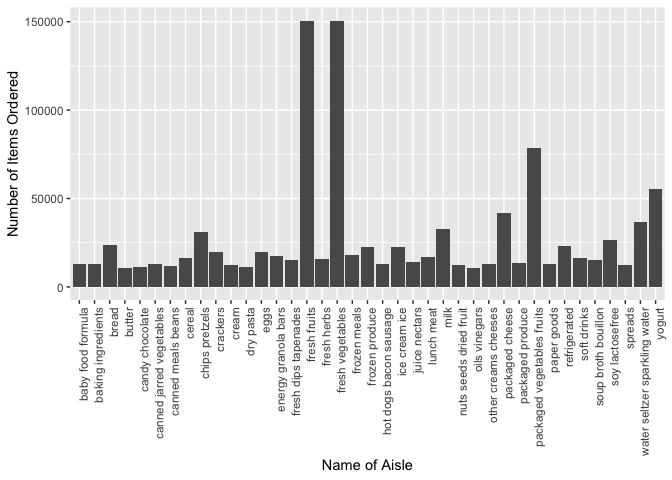
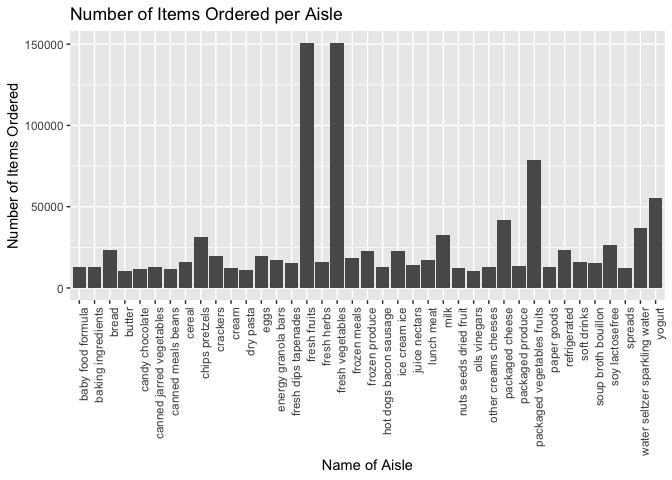
Added additional comments to question 1

diff --git a/p8105_hw3_stl2137.md b/p8105_hw3_stl2137.md
@@ -20,14 +20,12 @@ aisle_count <- instacart %>%
   arrange(desc(n))
 ```
 
-There are a total of `count(aisle_count)` aisles, and the top 6 aisles
-where the most items are ordered from are fresh vegetables, fresh
-fruits, packaged vegetables fruits, yogurt, packcaged cheese, and water
-seltzer sparkling water.
+There are a total of 134 aisles, and the top 6 aisles where the most
+items are ordered from are fresh vegetables, fresh fruits, packaged
+vegetables fruits, yogurt, packcaged cheese, and water seltzer sparkling
+water.
 
-Make a plot that shows the number of items ordered in each aisle,
-limiting this to aisles with more than 10000 items ordered. Arrange
-aisles sensibly, and organize your plot so others can read it.
+### Plot that shows Number of Items Ordered per Aisle
 
 ``` r
 instacart %>% 
@@ -39,17 +37,20 @@ instacart %>%
   geom_col() +
   labs(
     x = "Name of Aisle",
-    y = "Number of Items Ordered"
+    y = "Number of Items Ordered",
+    title = "Number of Items Ordered per Aisle"
   ) + 
   theme(axis.text.x = element_text(angle = 90, hjust = 1))
 ```
 
-![](p8105_hw3_stl2137_files/figure-gfm/unnamed-chunk-2-1.png)<!-- -->
+![](p8105_hw3_stl2137_files/figure-gfm/unnamed-chunk-2-1.png)<!-- --> \*
+Fresh fruits and fresh vegetables are ordered much more frequently than
+the rest of the products customers can order via Instacart. Packaged
+vegetables fruit are the 3rd most ordered product, and yogurt is the 4th
+most ordered
+product.
 
-Make a table showing the three most popular items in each of the aisles
-“baking ingredients”, “dog food care”, and “packaged vegetables
-fruits”. Include the number of times each item is ordered in your
-table.
+### Table showing the three most popular items in the aisles “baking ingredients”, “dog food care”, and “packaged vegetables fruits”
 
 ``` r
 instacart %>% 
@@ -76,9 +77,21 @@ instacart %>%
     ## 8 dog food care             Organix Chicken & Brown Rice Recipe          28
     ## 9 dog food care             Small Dog Biscuits                           26
 
-Make a table showing the mean hour of the day at which Pink Lady Apples
-and Coffee Ice Cream are ordered on each day of the week; format this
-table for human readers (i.e. produce a 2 x 7 table).
+  - The top three items in the “packaged vegetables fruits” aisle are
+    Organize Baby Spinach (ordered 9784 times), Organic Raspberries
+    (ordered 5546 times), and Organic Blueberries (ordered 4966 times).
+
+  - The top three items in the “baking ingredients” aisle are Light
+    Brown Sugar (ordered 499 times), Pure Baking Soda (ordered 387
+    times), and Cane Sugar (ordered 336 times).
+
+  - The top three items in the “dog food care” aisle are Snack Sticks
+    Chicken & Rice Recipe Dog Treats (ordered 30 times), Organix Chicken
+    & Brown Rice Recipe (ordered 28 times), and Small Dog Biscuits
+    (ordered 26
+times).
+
+### Table showing the mean hour of the day at which Pink Lady Apples and Coffee Ice Cream are ordered on each day of the week
 
 ``` r
 instacart %>%
@@ -99,7 +112,38 @@ instacart %>%
     ## 1 Coffee Ice Cream  13.8  14.3  15.4  15.3  15.2  12.3  13.8
     ## 2 Pink Lady Apples  13.4  11.4  11.7  14.2  11.6  12.8  11.9
 
+  - Overall, Coffee Ice Cream is ordered later in the day compared to
+    Pink Lady Apples.
+
+  - On Sunday, the mean hour of the day to order both Coffee Ice Cream
+    and Pink Lady Apples is in the 1 PM hour.
+
+  - On Monday, the mean hour of the day to order Coffee Ice cream is in
+    the 2 PM hour, and the mean hour of the day to order Pink Lady
+    Apples is in the 11 AM hour.
+
+  - On Tuesday, the mean hour of the day to order Coffee Ice cream is in
+    the 3 PM hour, and the mean hour of the day to order Pink Lady
+    Apples is in the 11 AM hour.
+
+  - On Wednesday, the mean hour of the day to order Coffee Ice cream is
+    in the 3 PM hour, and the mean hour of the day to order Pink Lady
+    Apples is in the 2 PM hour.
+
+  - On Thursday, the mean hour of the day to order Coffee Ice cream is
+    in the 3 PM hour, and the mean hour of the day to order Pink Lady
+    Apples is in the 11 AM hour.
+
+  - On Friday, the mean hour of the day to order both Coffee Ice Cream
+    and Pink Lady Apples is in the 12 PM hour.
+
+  - On Saturday, the mean hour of the day to order Coffee Ice cream is
+    in the 2 PM hour, and the mean hour of the day to order Pink Lady
+    Apples is in the 11 AM hour.
+
 ## Problem 2
+
+### Data Cleaning\!
 
 ``` r
 brfss_clean <- brfss_smart2010 %>% 
@@ -111,10 +155,10 @@ brfss_clean <- brfss_smart2010 %>%
 ```
 
 Using this dataset, do or answer the following (commenting on the
-results of each):
+results of
+each):
 
-In 2002, which states were observed at 7 or more locations? What about
-in 2010?
+### In 2002, which states were observed at 7 or more locations? What about in 2010?
 
 ``` r
 brfss_clean %>% 
@@ -167,6 +211,8 @@ brfss_clean %>%
     ## 12 SC               7
     ## 13 TX              16
     ## 14 WA              10
+
+In 2002, the following 6 states were observed at 7 or more locations:
 
 Construct a dataset that is limited to Excellent responses, and
 contains, year, state, and a variable that averages the data\_value
